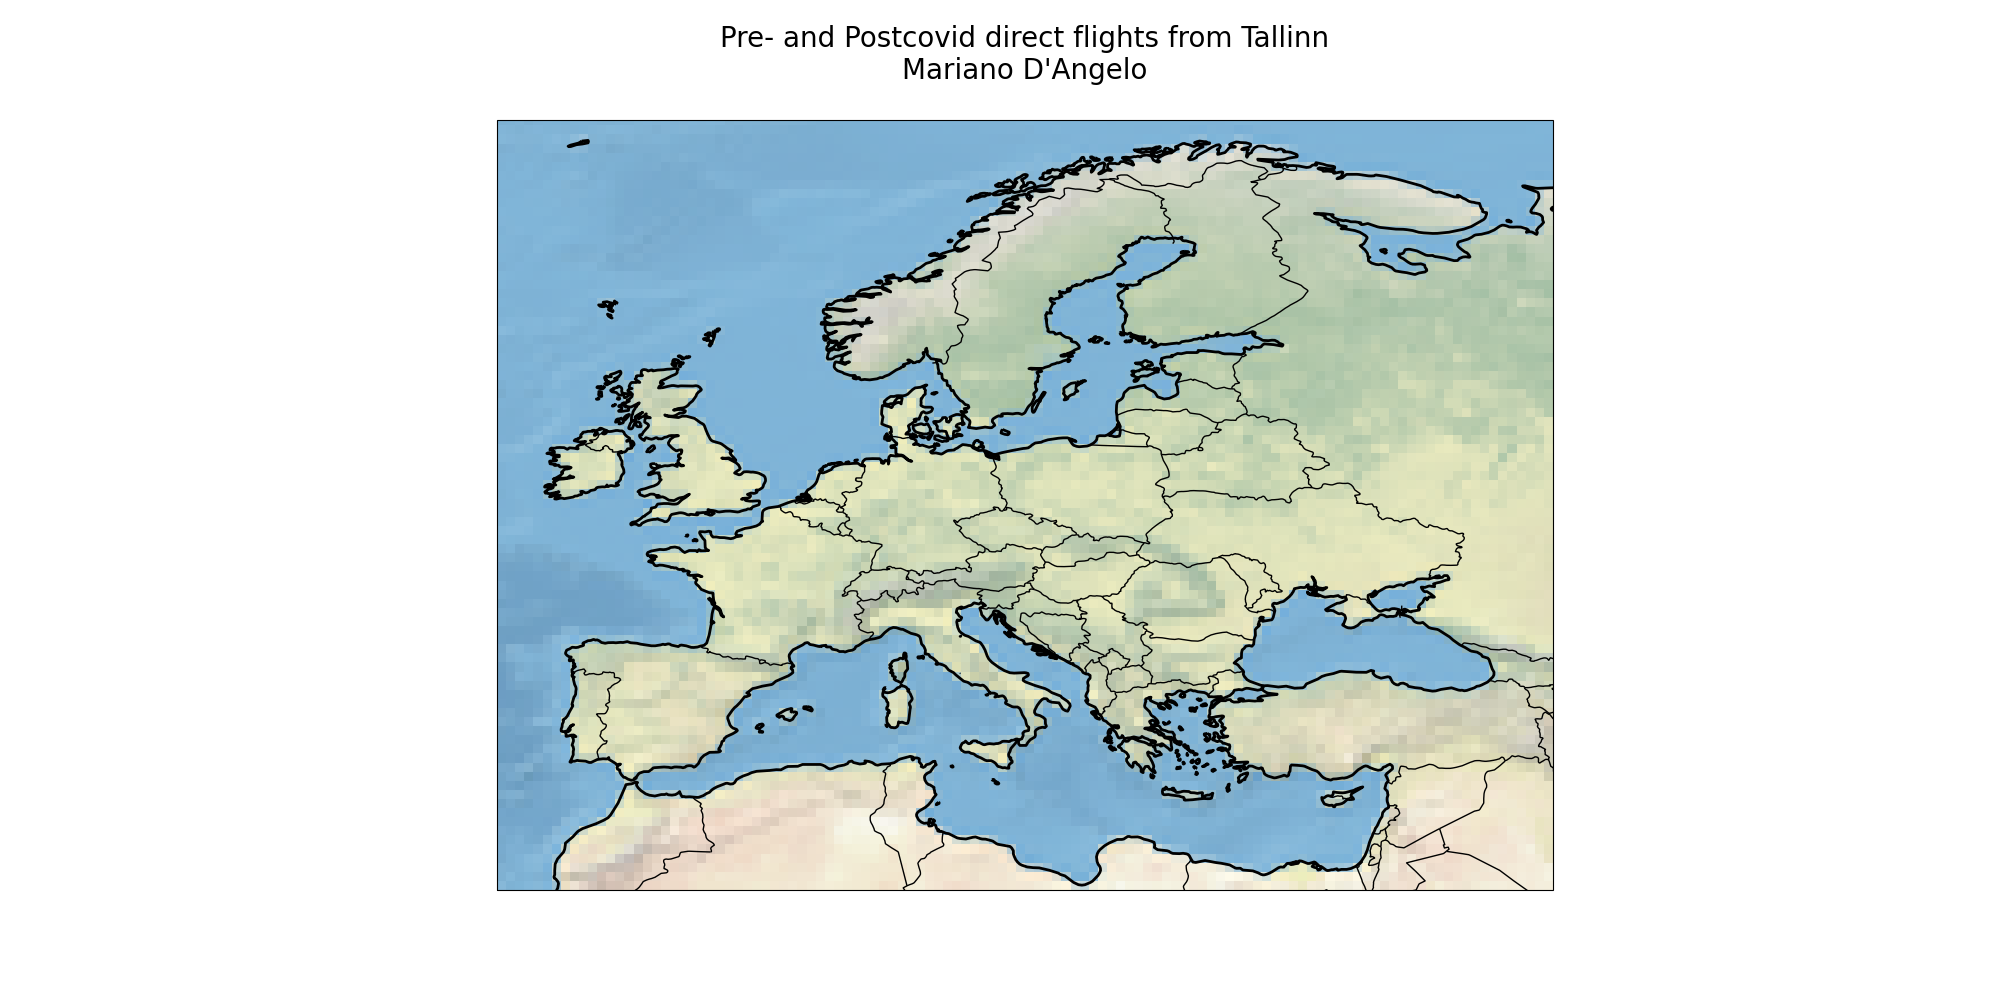
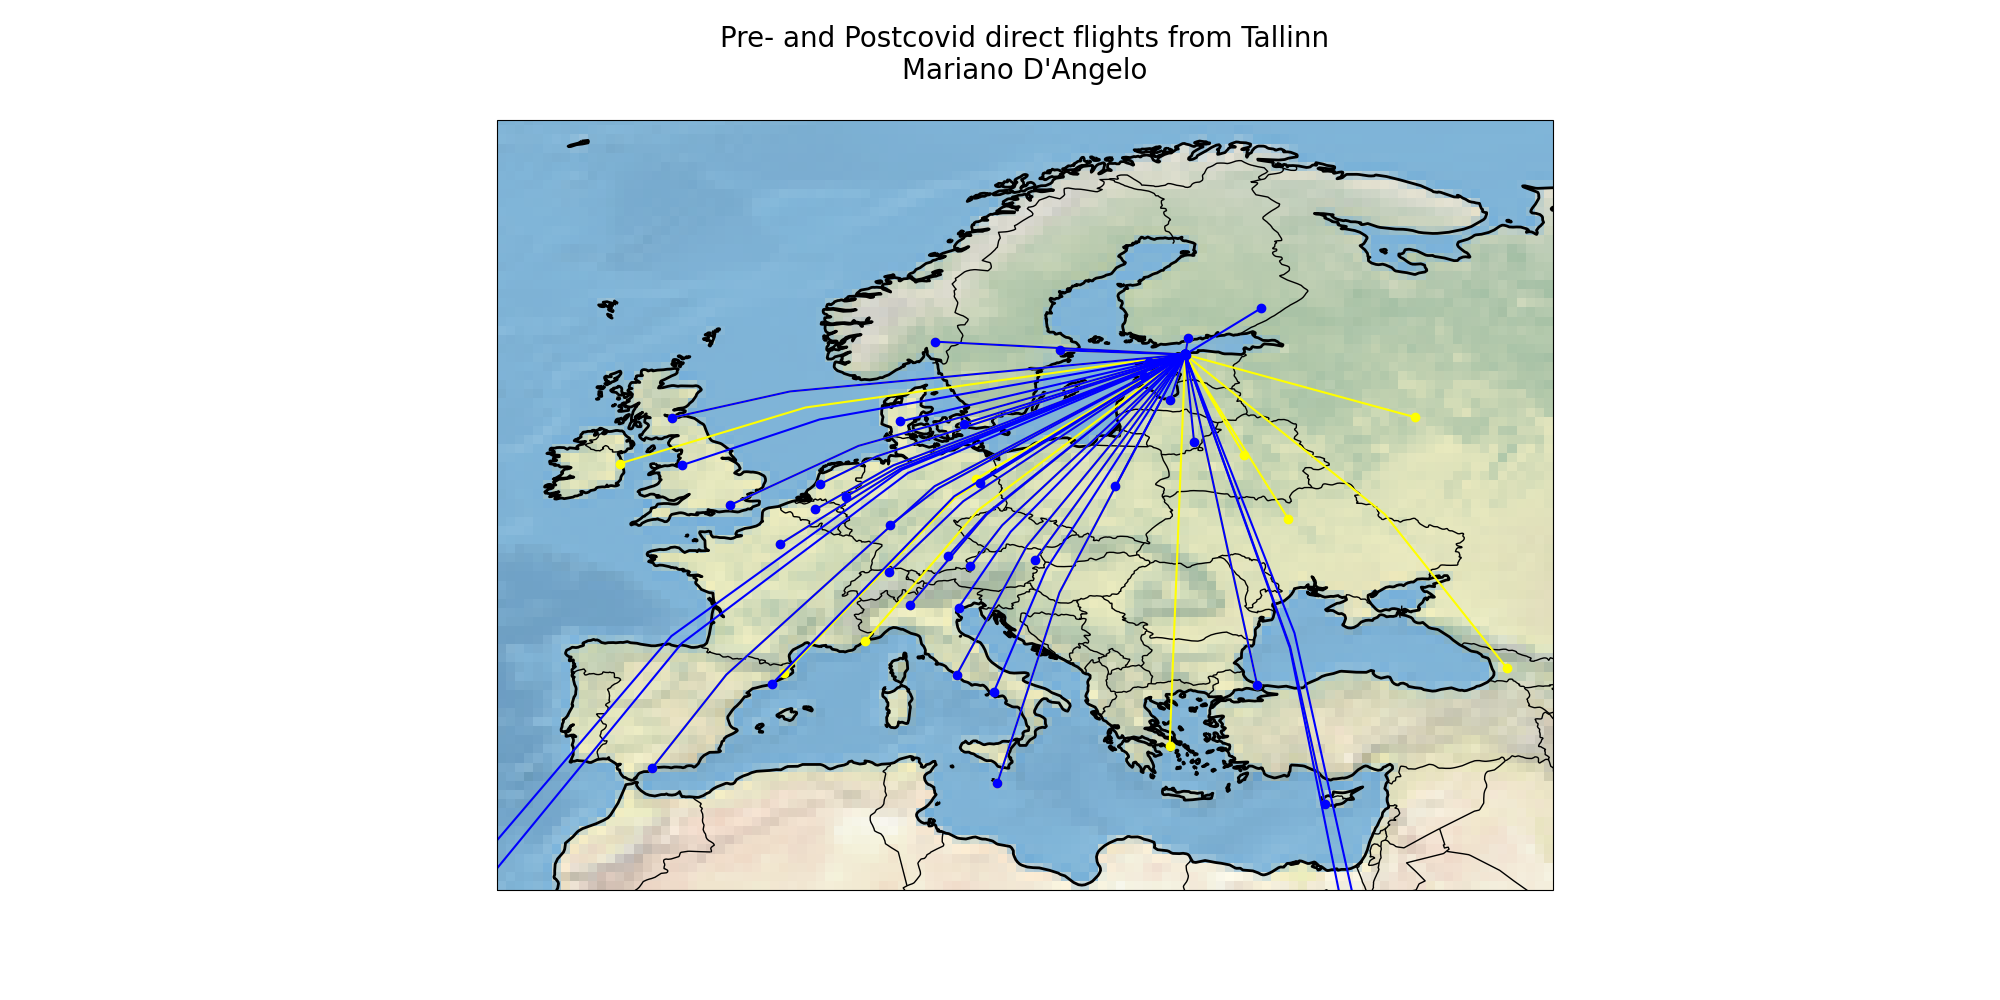
done

diff --git a/Homework_3/main.py b/Homework_3/main.py
@@ -4,6 +4,29 @@ import cartopy.feature as cf
 from matplotlib import pyplot as plt
 
 
+def createmap_Europe():
+    """
+    Draw a map of Europe using cartopy
+    """
+    proj = ccrs.PlateCarree()
+    ax = plt.axes(projection=proj)
+    ax.set_extent([-13, 45, 30, 70])
+    ax.stock_img()
+    ax.add_feature(cf.COASTLINE, lw=2)
+    ax.add_feature(cf.BORDERS)
+    plt.gcf().set_size_inches(20, 10)
+
+
+def draw_flights(flights_data, lat, lon, clr, mrkr):
+    """
+    Draw flights with desired color and style. Flights file must contain 
+    columns Latitude and Longitude.
+    """
+    # without index gives error because of tuple
+    for index, row in flights_data.iterrows():
+        plt.plot([lon, row['Longitude']], [lat, row['Latitude']], color=clr, marker=mrkr, transform=ccrs.Geodetic())
+
+
 # Read csv files, first is precovid flights, second postcovid flights, and last is airports
 precf = pd.read_csv("Files/precovid_flights.csv", sep=";")
 postcf = pd.read_csv("Files/postcovid_flights.csv", sep=";")
@@ -13,14 +36,16 @@ airports = pd.read_csv("Files/airports.dat", sep=",")
 precf_coord = pd.merge(precf, airports[['Longitude', 'Latitude', 'IATA']], on='IATA')
 postcf_coord = pd.merge(postcf, airports[['Longitude', 'Latitude', 'IATA']], on='IATA')
 
-# Draw a map of Europe using cartopy
-proj = ccrs.PlateCarree()
-ax = plt.axes(projection=proj)
-ax.set_extent([-13, 45, 30, 70])
-ax.stock_img()
-ax.add_feature(cf.COASTLINE, lw=2)
-ax.add_feature(cf.BORDERS)
-plt.gcf().set_size_inches(20, 10)
+# Draw the map of Europe
+createmap_Europe()
+
+# Create two variables holding Tallin's latitude and longitude
+tallinn_lat = 59.4162
+tallinn_lon = 24.8004
+
+# Call function in order to draw flight data, precovid will be in yellow, postcovid in blue
+draw_flights(precf_coord, tallinn_lat, tallinn_lon, 'yellow', 'o')
+draw_flights(postcf_coord, tallinn_lat, tallinn_lon, 'blue', 'o')
 
 # Save figure as PNG and set title
 plt.title("Pre- and Postcovid direct flights from Tallinn\nMariano D'Angelo\n", fontsize=20)
